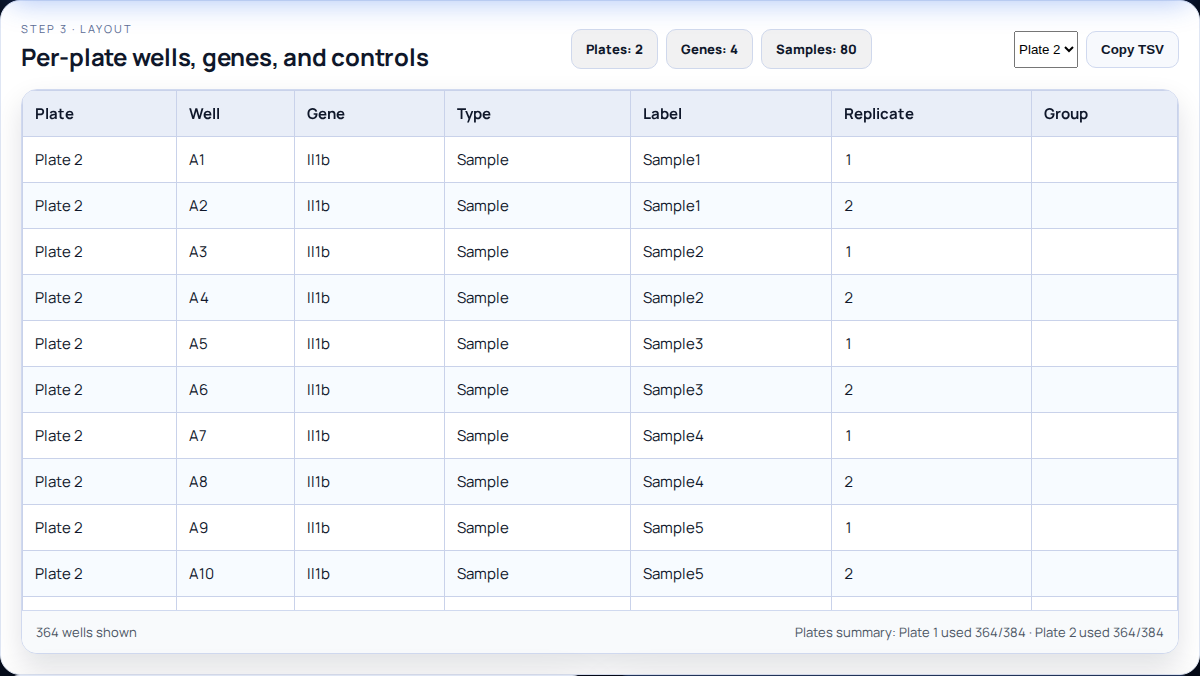
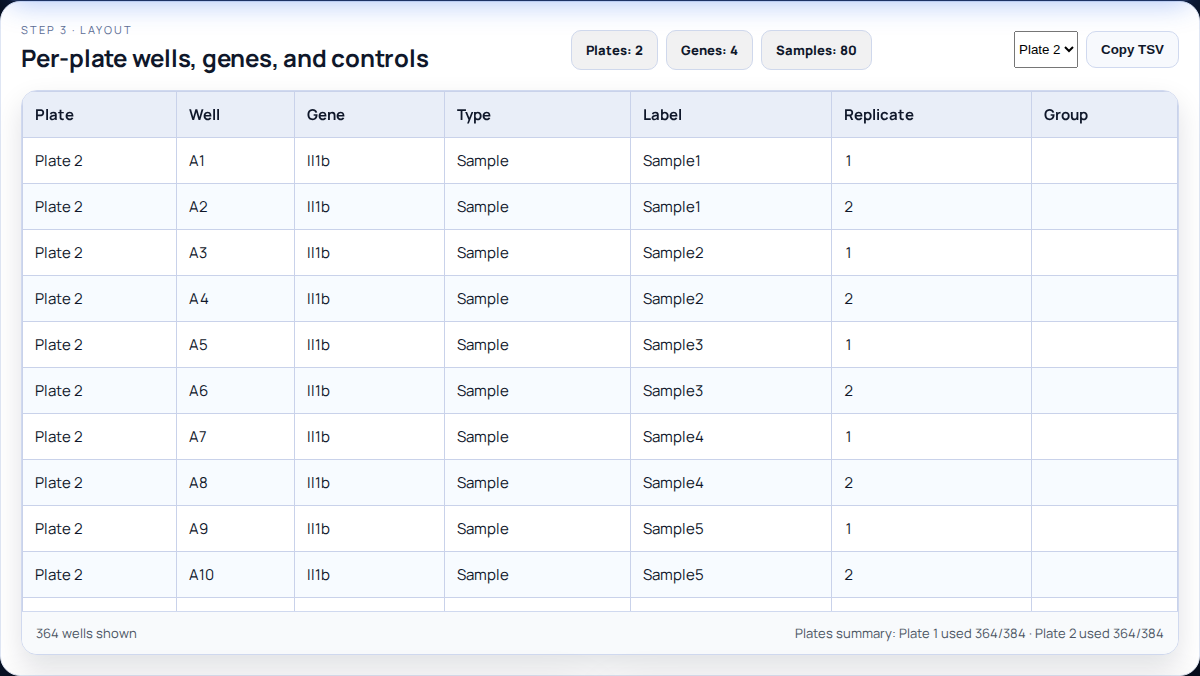
fix: plate layout and scrollable tables

diff --git a/modern-app/src/App.tsx b/modern-app/src/App.tsx
@@ -133,11 +133,11 @@ function App() {
   }
 
   const getWellColorClass = (cell?: LayoutRow) => {
-    if (!cell) return ''
-    if (cell.Type === 'Standard') return 'bg-sky-500'
-    if (cell.Type === 'Positive') return 'bg-amber-500'
-    if (cell.Type === 'Negative') return 'bg-purple-500'
-    if (cell.Type === 'Blank') return 'bg-slate-700'
+    if (!cell) return 'well-empty'
+    if (cell.Type === 'Standard') return 'well-standard'
+    if (cell.Type === 'Positive') return 'well-positive'
+    if (cell.Type === 'Negative') return 'well-negative'
+    if (cell.Type === 'Blank') return 'well-blank'
     return ''
   }
 
@@ -317,23 +317,23 @@ function App() {
                   <span className="muted">{filteredLayout.length ? `${filteredLayout.length} wells shown` : 'Compute to preview'}</span>
                 </div>
                 <div className="plate-shell">
-                  <div className="w-full max-w-[540px] mx-auto">
+                  <div className="plate-grid-wrapper">
                     <div
-                      className="plate-mini inline-grid w-full grid-cols-[auto_repeat(24,minmax(0,1fr))] grid-rows-[auto_repeat(17,minmax(0,1fr))] gap-[2px] rounded-2xl bg-slate-950/70 p-3 shadow-inner border border-slate-800/60"
+                      className="plate-grid"
                       aria-label="plate schematic"
                     >
-                      <div />
+                      <div className="corner" />
                       {PLATE_COLS.map(col => (
                         <div
                           key={`h-${col}`}
-                          className="text-[10px] leading-none text-slate-200 text-center font-medium [font-variant-numeric:tabular-nums]"
+                          className="col-head"
                         >
                           {col}
                         </div>
                       ))}
                       {PLATE_ROWS.map((row, rIdx) => (
                         <React.Fragment key={row}>
-                          <div className="text-[10px] leading-none text-slate-200 flex items-center justify-center font-medium">
+                          <div className="row-head">
                             {row}
                           </div>
                           {PLATE_COLS.map((col, cIdx) => {
@@ -344,7 +344,7 @@ function App() {
                             return (
                               <div
                                 key={well}
-                                className={`aspect-square rounded-[3px] border border-slate-800/80 bg-slate-900/60 hover:outline hover:outline-[1px] hover:outline-cyan-300/60 transition-colors ${colorClass}`}
+                                className={`well-square ${colorClass}`}
                                 title={
                                   cell
                                     ? `${well} • ${cell.Gene} (${cell.Type}${cell.Label ? `: ${cell.Label}` : ''})`
@@ -364,7 +364,7 @@ function App() {
                       ))}
                     </div>
                     {!hasAnyWells && (
-                      <p className="mt-2 text-[11px] text-slate-400 text-center">
+                      <p className="plate-empty-hint">
                         No layout yet – fill inputs and click <strong>Compute layout</strong>.
                       </p>
                     )}
@@ -491,7 +491,7 @@ function App() {
           {layout.length > 0 && (
             <div className="table-wrap">
               <div className="table-scroll">
-                <table className="data">
+                <table className="data layout-table">
                   <thead>
                     <tr>
                       {['Plate','Well','Gene','Type','Label','Replicate','Group'].map(h => <th key={h}>{h}</th>)}
@@ -528,7 +528,7 @@ function App() {
           {mix.length > 0 && (
             <div className="table-wrap">
               <div className="table-scroll">
-                <table className="data">
+                <table className="data mix-table">
                   <thead>
                     <tr>
                       {MIX_HEADERS.map(h => (

diff --git a/modern-app/src/App.css b/modern-app/src/App.css
@@ -340,11 +340,82 @@ body {
   padding: 6px 0;
 }
 
-.plate-mini {}
-.corner {}
-.col-head {}
-.row-head {}
-.well-dot {}
+.plate-grid-wrapper {
+  width: 100%;
+  max-width: 560px;
+  margin: 0 auto;
+}
+
+.plate-grid {
+  display: grid;
+  grid-template-columns: 26px repeat(24, 1fr);
+  grid-template-rows: 18px repeat(16, 1fr);
+  gap: 2px;
+  padding: 12px;
+  border-radius: 16px;
+  border: 1px solid #1f2f4e;
+  background: linear-gradient(135deg, #0b1324, #0a1020);
+  box-shadow: inset 0 1px 0 rgba(255, 255, 255, 0.05);
+  min-width: 420px;
+}
+
+.col-head,
+.row-head {
+  display: flex;
+  align-items: center;
+  justify-content: center;
+  font-size: 10px;
+  line-height: 1;
+  color: #e2e8f0;
+  font-weight: 600;
+  font-variant-numeric: tabular-nums;
+}
+
+.row-head {
+  width: 26px;
+}
+
+.corner {
+  width: 26px;
+  height: 18px;
+}
+
+.well-square {
+  aspect-ratio: 1 / 1;
+  border-radius: 3px;
+  border: 1px solid rgba(51, 65, 85, 0.8);
+  background: rgba(15, 23, 42, 0.7);
+  display: flex;
+  align-items: center;
+  justify-content: center;
+  transition: outline 120ms ease, border-color 120ms ease;
+  overflow: hidden;
+}
+
+.well-square:hover {
+  outline: 1px solid rgba(34, 211, 238, 0.6);
+  border-color: rgba(34, 211, 238, 0.8);
+}
+
+.well-square span {
+  font-size: 9px;
+  font-weight: 700;
+  color: #e2e8f0;
+  line-height: 1;
+  text-shadow: 0 1px 2px rgba(0, 0, 0, 0.5);
+}
+
+.well-standard { background: #0ea5e9; }
+.well-positive { background: #f59e0b; }
+.well-negative { background: #a855f7; }
+.well-blank { background: #94a3b8; }
+.well-empty { background: rgba(15, 23, 42, 0.7); }
+.plate-empty-hint {
+  margin-top: 6px;
+  text-align: center;
+  font-size: 11px;
+  color: #94a3b8;
+}
 
 .data tbody tr:nth-child(even) {
   background: rgba(255, 255, 255, 0.02);
@@ -636,12 +707,22 @@ body {
 .table-scroll {
   max-height: 520px;
   overflow: auto;
+  overflow-x: auto;
+  overscroll-behavior: contain;
 }
 
 .data {
   width: 100%;
   border-collapse: collapse;
   font-size: 15px;
+}
+
+.layout-table {
+  min-width: 760px;
+}
+
+.mix-table {
+  min-width: 900px;
 }
 
 .data thead {

diff --git a/modern-app/tests/e2e.spec.ts b/modern-app/tests/e2e.spec.ts
@@ -18,7 +18,7 @@ test('qPCR planner flow', async ({ page }) => {
   const cards = page.locator('section.card')
   await cards.nth(0).screenshot({ path: 'screenshots/plan_tab.png' })
   await page.getByRole('button', { name: 'Plate preview' }).click()
-  await page.locator('.plate-mini').screenshot({ path: 'screenshots/plate_preview.png' })
+  await page.locator('.plate-grid').screenshot({ path: 'screenshots/plate_preview.png' })
 
   await page.getByTestId('calculate-btn').click()
   // Confirm plan finished and spans multiple plates
